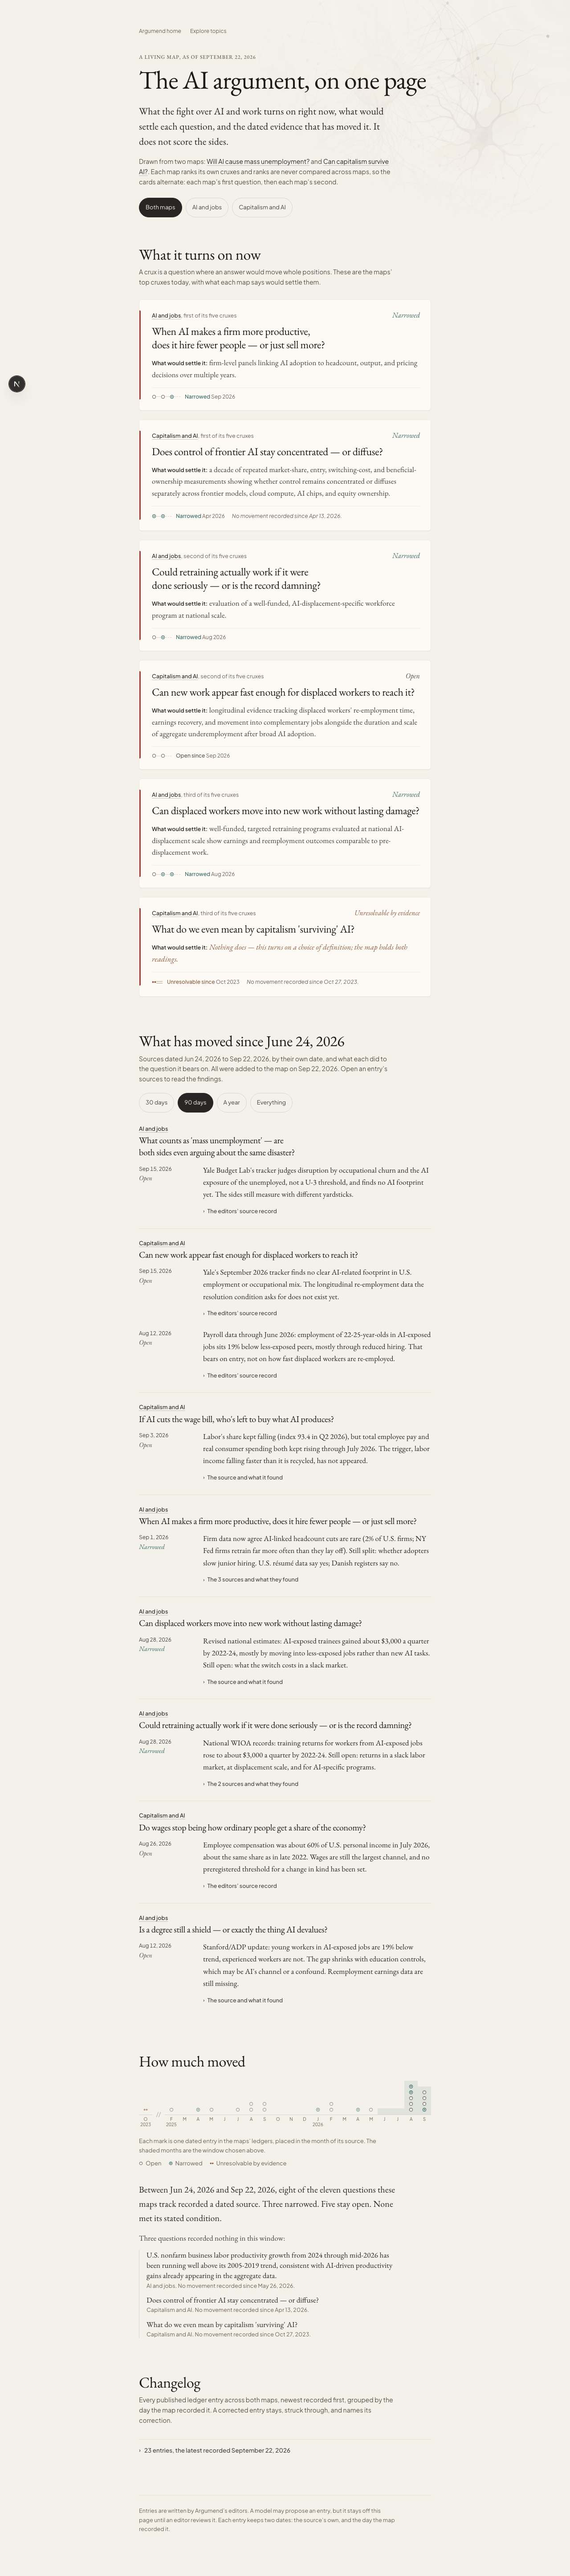
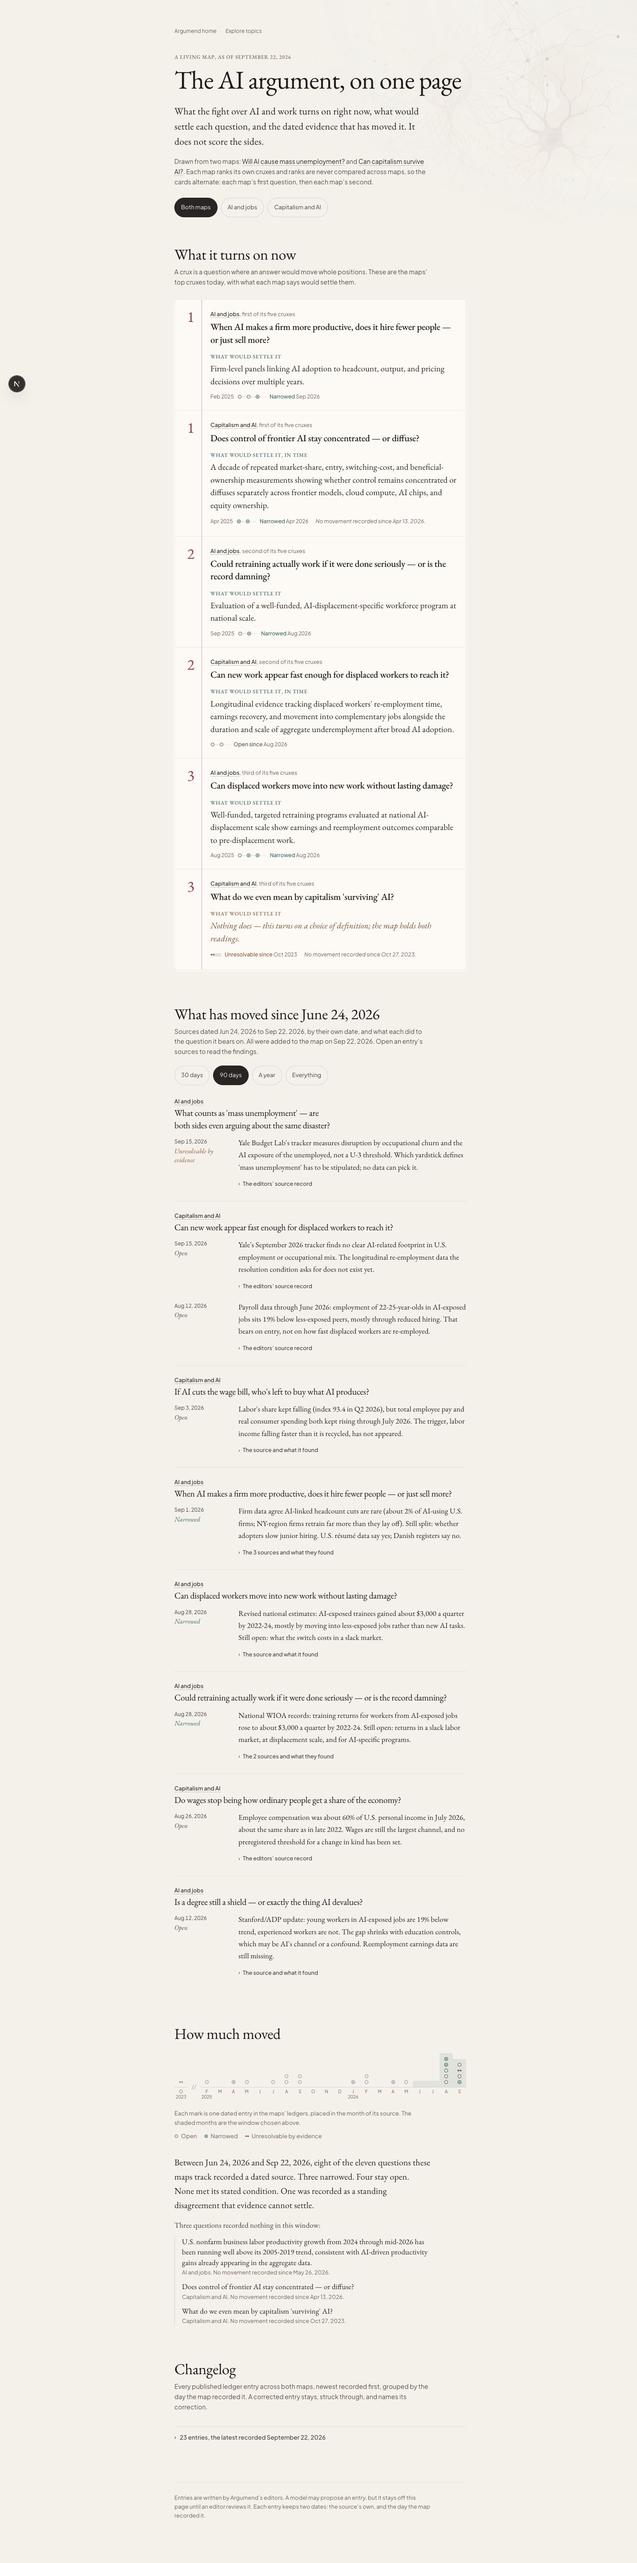
fix(ai): draw /ai's cruxes on the map pages' crux sheet
One ruled sheet with hairline rules, a single crimson margin rule and
crimson numerals, the small-caps settle label over a serif answer (teal,
or the brown standing line), and the movement track. Reuses DebateView's
sheet classes, settleMode and SettleAnswer by import. The margin numeral
is the crux's rank inside its own map; each entry still names its map.

Claude-Session: https://claude.ai/code/session_01W67iDWgTjrLMLryLKwuAUP

diff --git a/components/ai/CruxCard.tsx b/components/ai/CruxCard.tsx
@@ -1,13 +1,23 @@
 /**
- * One pooled crux on the living AI map: the question, the map it belongs to
- * and its rank inside that map (never a rank across maps), what would settle
- * it, the ledger's status word, and the movement strip.
+ * One pooled crux on the living AI map, drawn as an entry on the map pages'
+ * crux sheet (components/argument/DebateView.tsx): crimson margin numeral,
+ * the question, what would settle it, and the movement strip. /ai adds the map
+ * it belongs to and its rank inside that map (never a rank across maps).
+ * Renders the sheet's <li>; the parent supplies <ol className={CRUX_SHEET}>.
  */
 import Link from "next/link";
 import { claimMovement } from "@/lib/argument/ledger";
 import type { PooledCrux } from "@/lib/argument/ledgerPool";
-import { CruxMovementTrack, standingLineFor } from "@/components/argument/CruxMovement";
-import { STATUS_TEXT, STATUS_WORD, domId, formatDay } from "./format";
+import { CruxMovementTrack } from "@/components/argument/CruxMovement";
+import {
+  ENTRY_COLUMN,
+  ENTRY_GRID,
+  MARGIN_RULE,
+  SettleAnswer,
+  settleMode,
+  type SettleMode,
+} from "@/components/argument/DebateView";
+import { domId, formatDay } from "./format";
 import { claimOf, cruxQuestion, type IndexedMap } from "./types";
 
 const ORDINAL = ["first", "second", "third", "fourth", "fifth", "sixth", "seventh", "eighth"];
@@ -30,30 +40,36 @@ export function CruxCard({
   const movement = claimMovement(map.ledger, crux.claimId);
   const latest = movement.at(-1)?.entry;
   const status = latest?.status;
-  // Same rule as the map pages: a resolved entry outranks an authored value
-  // fork, so "Nothing does" never sits under a Resolved status.
-  const standing =
-    status === "unresolvable" ||
-    (claim?.resolution?.kind === "value-difference" && status !== "resolved");
-  const standingLine = standingLineFor(latest?.resolutionKind ?? claim?.resolution?.kind);
+  const isResolved = status === "resolved";
+  // Same rules as the map page's crux sheet: a resolved entry outranks an
+  // authored value fork, and an unresolvable entry names its kind of fork.
+  const mode: SettleMode = claim ? settleMode(claim, status) : "unstated";
+  const kind =
+    status === "unresolvable"
+      ? (latest?.resolutionKind ?? claim?.resolution?.kind)
+      : claim?.resolution?.kind;
   const quiet = latest === undefined || latest.date < since;
   const rankWord = ORDINAL[crux.mapRank - 1] ?? `number ${crux.mapRank}`;
   const countWord = CARDINAL[crux.mapCruxCount - 1] ?? String(crux.mapCruxCount);
   const headingId = `crux-${domId(crux.topicId)}-${domId(crux.claimId)}`;
 
   return (
-    <article
+    <li
       aria-labelledby={headingId}
       data-testid="ai-crux-card"
       data-topic={crux.topicId}
-      className="relative rounded-md border border-divider/70 bg-[var(--bg-panel)] py-5 pl-5 pr-4 shadow-[0_1px_0_rgb(var(--border-divider-rgb)/0.6)] sm:py-6 sm:pl-7 sm:pr-6"
+      className={MARGIN_RULE}
     >
-      <span
-        aria-hidden="true"
-        className="absolute bottom-5 left-0 top-5 w-[3px] rounded-r-sm bg-[#a23b3b] dark:bg-[#e06a6a] sm:bottom-6 sm:top-6"
-      />
-      <p className="flex flex-wrap items-baseline justify-between gap-x-4 gap-y-1 text-[12.5px] leading-snug">
-        <span className="text-muted dark:text-stone-400">
+      <div className={`${ENTRY_GRID} py-5 pr-4 sm:py-6`}>
+        {/* The margin numeral is the crux's rank inside its own map, never a
+            rank across maps, so the sheet reads 1, 1, 2, 2 as the maps interleave. */}
+        <span
+          aria-hidden="true"
+          className="row-span-4 pr-3 text-right font-serif text-[1.875rem] leading-[1.6rem] text-[#a23b3b] dark:text-[#d27070] sm:pr-4 sm:text-[2.125rem] sm:leading-[1.75rem]"
+        >
+          {crux.mapRank}
+        </span>
+        <p className={`${ENTRY_COLUMN} mb-1.5 text-[12.5px] leading-snug text-muted dark:text-stone-400`}>
           <Link
             href={`/topics/${crux.topicId}#cruxes`}
             className="font-medium text-stone-800 underline decoration-stone-400/60 underline-offset-[3px] hover:decoration-stone-700 dark:text-stone-200 dark:decoration-stone-500 dark:hover:decoration-stone-200"
@@ -61,51 +77,35 @@ export function CruxCard({
             {map.label}
           </Link>
           , {rankWord} of its {countWord} cruxes
-        </span>
-        {status && (
-          <span className={`font-serif text-[16px] italic ${STATUS_TEXT[status]}`}>
-            {STATUS_WORD[status]}
-          </span>
-        )}
-      </p>
-
-      <h3
-        id={headingId}
-        className={`mt-2.5 text-balance font-serif text-[1.375rem] leading-[1.25] sm:text-[1.5rem] ${
-          status === "resolved"
-            ? "text-stone-600 dark:text-stone-400"
-            : "text-stone-900 dark:text-stone-50"
-        }`}
-      >
-        {question}
-      </h3>
-
-      <p className="mt-3 font-serif text-[1.0625rem] leading-[1.55] text-stone-700 dark:text-stone-300">
-        <span className="font-sans text-[12.5px] font-semibold text-stone-800 dark:text-stone-200">
-          What would settle it:
-        </span>{" "}
-        {standing ? (
-          <span className="italic text-[#8B5A3C] dark:text-[#cfa88a]">{standingLine}</span>
-        ) : (
-          sentence(claim?.resolution?.condition ?? "not yet specified")
-        )}
-      </p>
-
-      <div className="mt-4 flex flex-wrap items-center gap-x-4 gap-y-2 border-t border-divider/60 pt-3.5">
-        {movement.length > 0 && <CruxMovementTrack movement={movement} />}
-        {quiet && (
-          <p className="text-xs leading-snug italic text-muted dark:text-stone-400">
-            No movement recorded since {formatDay(latest?.date ?? mapDrawnOn)}
-            {latest ? "." : ", when the map was drawn."}
-          </p>
+        </p>
+        <h3
+          id={headingId}
+          className={`${ENTRY_COLUMN} text-pretty font-serif text-[1.1875rem] font-medium leading-[1.35] sm:text-[1.3125rem] ${
+            isResolved ? "text-stone-600 dark:text-stone-400" : "text-stone-900 dark:text-stone-100"
+          }`}
+        >
+          {question}
+        </h3>
+        <p className={ENTRY_COLUMN}>
+          <SettleAnswer
+            mode={mode}
+            kind={kind}
+            condition={claim?.resolution?.condition}
+            resolved={isResolved}
+          />
+        </p>
+        {(movement.length > 0 || quiet) && (
+          <div className={`${ENTRY_COLUMN} mt-3.5 flex flex-wrap items-center gap-x-4 gap-y-2`}>
+            <CruxMovementTrack movement={movement} />
+            {quiet && (
+              <p className="text-xs italic leading-snug text-muted dark:text-stone-400">
+                No movement recorded since {formatDay(latest?.date ?? mapDrawnOn)}
+                {latest ? "." : ", when the map was drawn."}
+              </p>
+            )}
+          </div>
         )}
       </div>
-    </article>
+    </li>
   );
-}
-
-/** The engine's conditions are phrases; close them as a sentence. */
-function sentence(text: string): string {
-  const trimmed = text.trim();
-  return /[.!?]$/.test(trimmed) ? trimmed : `${trimmed}.`;
 }

diff --git a/components/argument/DebateView.tsx b/components/argument/DebateView.tsx
@@ -227,7 +227,7 @@ export function DebateView({ meta, graph, cruxes, ledger = [] }: DebateViewProps
         <p className="mt-2 text-pretty font-serif text-[1.0625rem] leading-relaxed text-secondary dark:text-stone-300">
           Settle one and whole positions move. {settleTally(cruxes, nodesById, ledger)}
         </p>
-        <ol className="mt-5 surface-card overflow-hidden !rounded-lg divide-y divide-stone-200/90 dark:divide-[#3d3a36]">
+        <ol className={`mt-5 ${CRUX_SHEET}`}>
             {cruxes.map((crux, index) => {
               const claim = nodesById.get(crux.claimId);
               if (claim?.type !== "claim") return null;
@@ -571,16 +571,19 @@ function renderStakes(
 /** Maps covered by the living AI page at /ai, which links back from here. */
 const AI_MAP_IDS: ReadonlySet<string> = new Set(["ai-mass-unemployment", "capitalism-after-ai"]);
 
+/** The crux sheet: one ruled card, hairline rules between entries. Shared with /ai. */
+export const CRUX_SHEET =
+  "surface-card overflow-hidden !rounded-lg divide-y divide-stone-200/90 dark:divide-[#3d3a36]";
 /** Numeral gutter | entry. The margin rule sits on the column boundary. */
-const ENTRY_GRID = "grid grid-cols-[2.5rem_minmax(0,1fr)] sm:grid-cols-[3.75rem_minmax(0,1fr)]";
+export const ENTRY_GRID = "grid grid-cols-[2.5rem_minmax(0,1fr)] sm:grid-cols-[3.75rem_minmax(0,1fr)]";
 /** A summary row in the entry column, right of the margin rule. */
-const ENTRY_COLUMN = "col-start-2 min-w-0 pl-4 sm:pl-5";
+export const ENTRY_COLUMN = "col-start-2 min-w-0 pl-4 sm:pl-5";
 /**
  * The margin rule, drawn per entry so the list stays `ol > li`. It starts a
  * pixel high to bridge each divider, so the rule reads as one line that the
  * horizontal rules cross, as on ledger paper.
  */
-const MARGIN_RULE =
+export const MARGIN_RULE =
   "relative before:pointer-events-none before:absolute before:-top-px before:bottom-0 before:left-[2.5rem] before:z-10 before:border-l before:border-[#a23b3b]/45 before:content-[''] dark:before:border-[#c45c5c]/55 sm:before:left-[3.75rem]";
 
 /**
@@ -590,9 +593,9 @@ const MARGIN_RULE =
  *  - standing:  nothing closes it; a value fork, or a ledger that says so
  *  - unstated:  the map has not written a condition down yet
  */
-type SettleMode = "evidence" | "agreement" | "standing" | "unstated";
+export type SettleMode = "evidence" | "agreement" | "standing" | "unstated";
 
-function settleMode(claim: Claim, latestStatus?: CruxLedgerStatus): SettleMode {
+export function settleMode(claim: Claim, latestStatus?: CruxLedgerStatus): SettleMode {
   const kind = claim.resolution?.kind;
   if (latestStatus === "unresolvable") return "standing";
   // A resolved entry outranks the authored kind: "nothing settles it" under a
@@ -672,7 +675,7 @@ function asSentence(text: string): string {
  * could settle it, brown with the engine's standing line when nothing does.
  * Summary content, so phrasing elements only.
  */
-function SettleAnswer({
+export function SettleAnswer({
   mode,
   kind,
   condition,

diff --git a/components/ai/AiLivingMap.tsx b/components/ai/AiLivingMap.tsx
@@ -24,6 +24,7 @@ import {
 } from "@/lib/argument/ledgerPool";
 import { ArrivedGroupView } from "./ArrivedSince";
 import { Changelog } from "./Changelog";
+import { CRUX_SHEET } from "@/components/argument/DebateView";
 import { CruxCard } from "./CruxCard";
 import { MovementFigure } from "./MovementFigure";
 import { aiHref, formatDay, formatLongDay, mapLabel } from "./format";
@@ -147,19 +148,19 @@ export function AiLivingMap({ maps, mapParam, sinceParam }: AiLivingMapProps) {
           A crux is a question where an answer would move whole positions. These are the
           maps&rsquo; top cruxes today, with what each map says would settle them.
         </p>
-        <ol className="mt-7 space-y-4 sm:space-y-5">
+        {/* The map pages' crux sheet: one ruled card, a crimson margin rule. */}
+        <ol className={`mt-7 ${CRUX_SHEET}`}>
           {cruxes.map((crux) => {
             const map = mapsById.get(crux.topicId);
             if (!map) return null;
             return (
-              <li key={`${crux.topicId}/${crux.claimId}`}>
-                <CruxCard
-                  crux={crux}
-                  map={map}
-                  since={since}
-                  mapDrawnOn={ARGUMENT_TOPICS_FIRST_PUBLISHED}
-                />
-              </li>
+              <CruxCard
+                key={`${crux.topicId}/${crux.claimId}`}
+                crux={crux}
+                map={map}
+                since={since}
+                mapDrawnOn={ARGUMENT_TOPICS_FIRST_PUBLISHED}
+              />
             );
           })}
         </ol>

diff --git a/app/ai/page.test.tsx b/app/ai/page.test.tsx
@@ -36,7 +36,7 @@ describe("/ai with the real AI maps", () => {
       const topicId = card.getAttribute("data-topic")!;
       expect(AI_MAP_TOPIC_IDS).toContain(topicId);
       expect(within(card).getByRole("link", { name: AI_MAP_LABELS[topicId] })).toBeTruthy();
-      expect(card.textContent).toContain("What would settle it:");
+      expect(card.textContent).toMatch(/What (would settle it|settled it)/);
     }
   });
 
@@ -55,10 +55,10 @@ describe("/ai with the real AI maps", () => {
     const view = await renderPage();
     const standing = view
       .getAllByTestId("ai-crux-card")
-      .filter((card) => card.textContent?.includes("Unresolvable by evidence"));
+      .filter((card) => card.querySelector("[data-settle=\"standing\"]"));
     expect(standing.length).toBeGreaterThan(0);
     for (const card of standing) {
-      expect(card.textContent).toMatch(/What would settle it: Nothing does — .*; the map holds both \w+\./);
+      expect(card.textContent).toMatch(/What would settle itNothing does — .*; the map holds both \w+\./);
     }
   });
 
